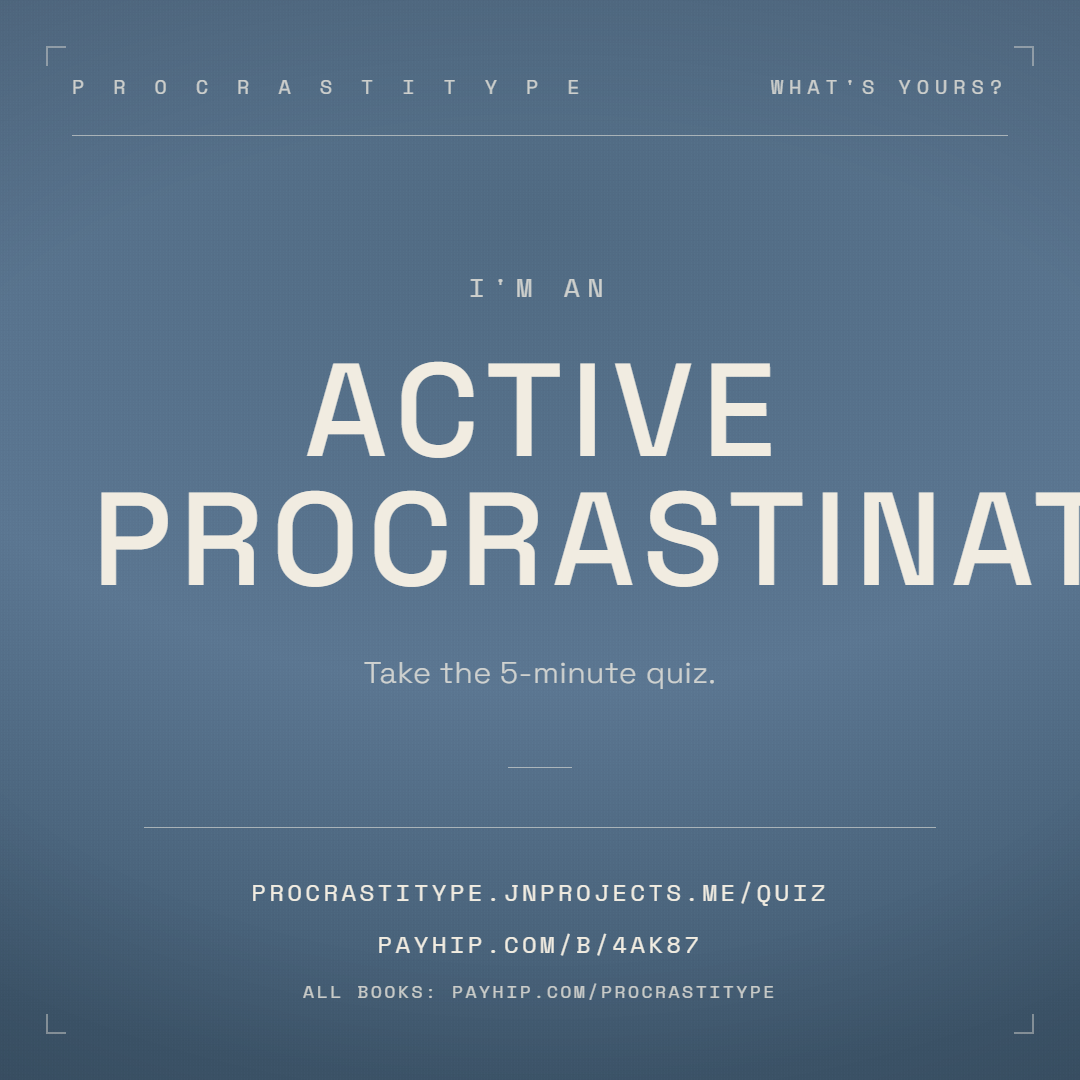
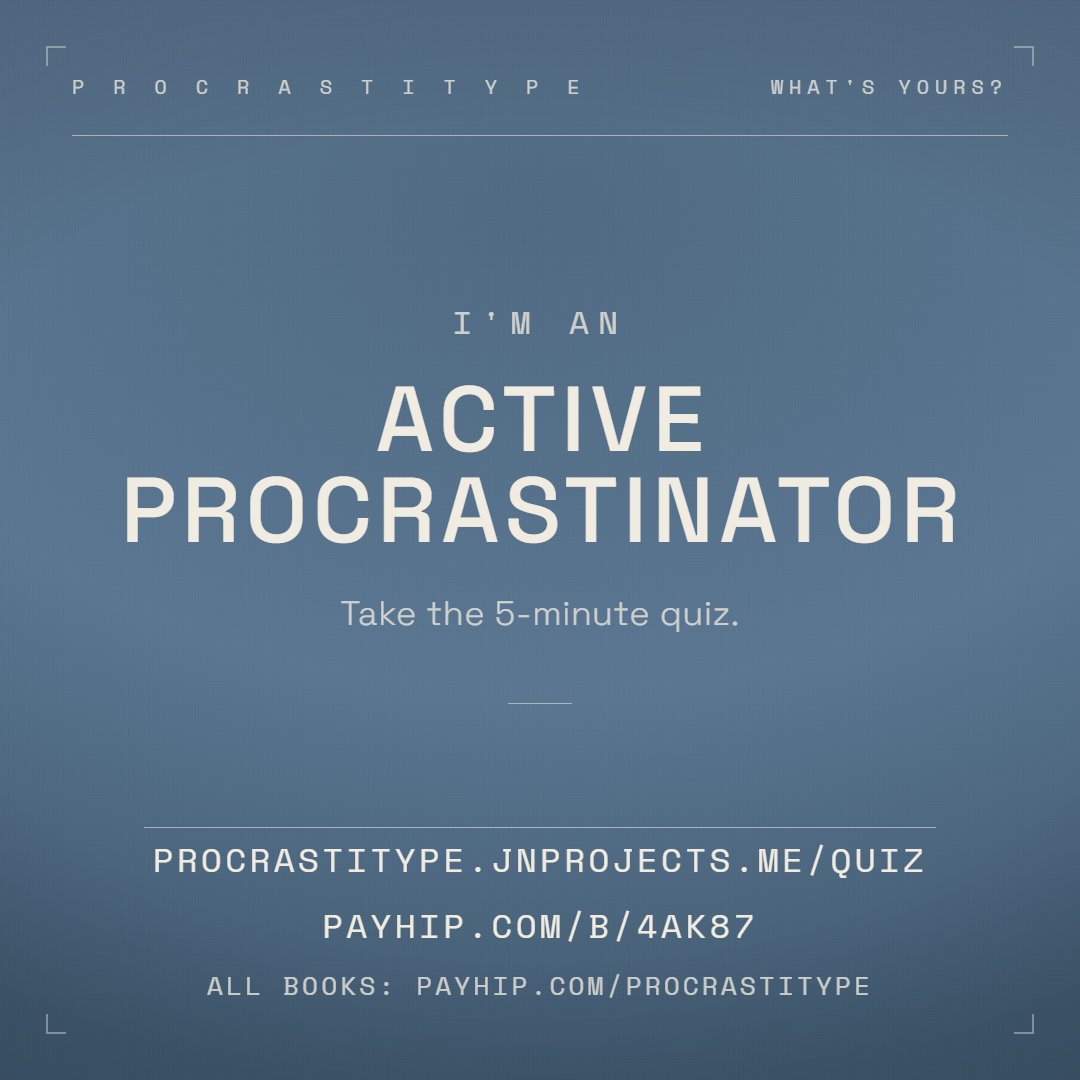
Fix share-card layout: fit title, enlarge secondary text
- reduce title size so Procrastinator line no longer clips off-card
- enlarge quiz/product/shop URLs and subtitle for readability
- add share-card overflow checker (all 7 cards verified to fit)

diff --git a/share-cards/check-share-card-overflow.js b/share-cards/check-share-card-overflow.js
@@ -1,0 +1,121 @@
+// Verify that no title line overflows the card for all configured types, and
+// that the whole card (frame) fits without clipping.
+//
+// Usage:
+//   node share-cards/check-share-card-overflow.js  [--only slug]
+//
+// Prints, per card, the overflow in px for each title line plus the frame.
+// Nonzero pixels mean the text is being clipped and the config needs smaller
+// type (titleSize) or less content.
+
+const fs = require("fs");
+const os = require("os");
+const path = require("path");
+const puppeteer = require(path.join(
+  __dirname,
+  "..",
+  "book-cover-generator",
+  "node_modules",
+  "puppeteer"
+));
+const config = require("./share-cards.config.js");
+const TEMPLATE = fs.readFileSync(path.join(__dirname, "share-card-template.html"), "utf8");
+
+function fill(card) {
+  const titleHtml = card.titleLines.map((line) => `<span>${line}</span>`).join("");
+  return TEMPLATE
+    .replace(/\{\{TITLE\}\}/g, card.titleLines.join(" "))
+    .replace(/\{\{ARTICLE\}\}/g, card.article)
+    .replace(/\{\{TITLE_HTML\}\}/g, titleHtml)
+    .replace(/\{\{TITLE_SIZE\}\}/g, String(card.titleSize))
+    .replace(/\{\{PALETTE_PRIMARY\}\}/g, card.palette.primary)
+    .replace(/\{\{PALETTE_DEEP\}\}/g, card.palette.deep)
+    .replace(/\{\{PALETTE_SHADE\}\}/g, card.palette.shade)
+    .replace(/\{\{CARD_W\}\}/g, "1080")
+    .replace(/\{\{CARD_H\}\}/g, "1080")
+    .replace(/\{\{SERIES_NAME\}\}/g, config.SERIES_NAME)
+    .replace(/\{\{EYEBROW\}\}/g, config.EYEBROW)
+    .replace(/\{\{SUBTITLE\}\}/g, card.subtitle)
+    .replace(/\{\{QUIZ_URL\}\}/g, config.QUIZ_URL)
+    .replace(/\{\{SHOP_URL\}\}/g, config.SHOP_URL)
+    .replace(/\{\{BOOK_URL\}\}/g, card.bookUrl);
+}
+
+(async () => {
+  const args = process.argv.slice(2);
+  const onlyIdx = args.indexOf("--only");
+  const only = onlyIdx >= 0 ? args[onlyIdx + 1] : null;
+  const cards = config.CARDS.filter((c) => !only || c.slug === only);
+  if (!cards.length) {
+    console.error(`No card matching --only ${only}`);
+    process.exit(1);
+  }
+
+  const browser = await puppeteer.launch({ headless: "new" });
+  let failures = 0;
+  try {
+    for (const card of cards) {
+      const page = await browser.newPage();
+      await page.setViewport({ width: 1080, height: 1080, deviceScaleFactor: 1 });
+      const file = path.join(os.tmpdir(), `share-ov-${card.slug}.html`);
+      fs.writeFileSync(file, fill(card));
+      await page.goto("file:///" + file.replace(/\\/g, "/"), { waitUntil: "load" });
+      await page.evaluate(() => document.fonts.ready);
+
+      const r = await page.evaluate(() => {
+        const spans = Array.from(document.querySelectorAll(".title span"));
+        const lines = spans.map((s) => {
+          const ow = s.scrollWidth;
+          const cw = s.clientWidth;
+          return ow - cw;
+        });
+        // Center is flex:1 (stretched), so measure the real content instead:
+        // the last child of .center is the subtitle-rule.
+        const center = document.querySelector(".center");
+        const lastChild = center.querySelector(".subtitle-rule") || center.lastElementChild;
+        const rule = document.querySelector(".bottom-rule");
+        const bottom = document.querySelector(".bottom");
+
+        const ruleTop = rule.getBoundingClientRect().top;
+        const contentBottom = lastChild.getBoundingClientRect().bottom;
+        const bottomBox = bottom.getBoundingClientRect();
+        const topRule = document.querySelector(".top-rule");
+        const claim = center.querySelector(".claim-small");
+        // topRule bottom vs claim top (content above shouldn't hit the top rule)
+        const contentTop = claim.getBoundingClientRect().top;
+        const topRuleBottom = topRule.getBoundingClientRect().bottom;
+
+        return {
+          lines: lines,
+          contentVsRule: contentBottom - ruleTop,
+          contentVsTop: topRuleBottom - contentTop,
+          bottomOverflowY: bottomBox.bottom - window.innerHeight,
+        };
+      });
+
+      const bad = r.lines.some((o) => o > 0) ||
+        r.contentVsRule > 0 ||
+        r.contentVsTop > 0 ||
+        r.bottomOverflowY > 0;
+      if (bad) failures++;
+
+      console.log(
+        `${card.slug.padEnd(18)} titleLineOverflow=[${r.lines.join(",")}] ` +
+        `contentVsRule=${Math.round(r.contentVsRule)} vsTop=${Math.round(r.contentVsTop)} ` +
+        `bottom=${Math.round(r.bottomOverflowY)} ` +
+        (bad ? "  <-- OVERFLOW" : "")
+      );
+      await page.close().catch(() => {});
+    }
+  } finally {
+    await browser.close();
+  }
+  if (failures) {
+    console.error(`\n${failures} card(s) overflow. Fix type size/content before regenerating.`);
+    process.exit(1);
+  }
+  console.log("\nAll cards fit. OK.");
+})().catch((e) => {
+  console.error(e);
+  process.exit(1);
+});

diff --git a/share-cards/share-cards.config.js b/share-cards/share-cards.config.js
@@ -23,7 +23,7 @@ const CARDS = [
     slug: "arousal",
     article: "an",
     titleLines: ["Arousal", "Procrastinator"],
-    titleSize: 150,
+    titleSize: 92,
     subtitle: "Take the 5-minute quiz.",
     bookUrl: "payhip.com/b/D9TpI",
     palette: { primary: "#b97a55", deep: "#96614a", shade: "#aa6f4e" },
@@ -32,7 +32,7 @@ const CARDS = [
     slug: "avoidance",
     article: "an",
     titleLines: ["Avoidance", "Procrastinator"],
-    titleSize: 132,
+    titleSize: 92,
     subtitle: "Take the 5-minute quiz.",
     bookUrl: "payhip.com/b/IYDC1",
     palette: { primary: "#8a9a82", deep: "#6f8169", shade: "#7d8d75" },
@@ -41,7 +41,7 @@ const CARDS = [
     slug: "decisional",
     article: "a",
     titleLines: ["Decisional", "Procrastinator"],
-    titleSize: 128,
+    titleSize: 92,
     subtitle: "Take the 5-minute quiz.",
     bookUrl: "payhip.com/b/WKSjw",
     palette: { primary: "#4f8a8a", deep: "#396b6b", shade: "#457a7a" },
@@ -50,7 +50,7 @@ const CARDS = [
     slug: "perfectionist",
     article: "a",
     titleLines: ["Perfectionist", "Procrastinator"],
-    titleSize: 112,
+    titleSize: 78,
     subtitle: "Take the 5-minute quiz.",
     bookUrl: "payhip.com/b/cIwO0",
     palette: { primary: "#6b7078", deep: "#4d525a", shade: "#5d626a" },
@@ -59,7 +59,7 @@ const CARDS = [
     slug: "passive",
     article: "a",
     titleLines: ["Passive", "Procrastinator"],
-    titleSize: 132,
+    titleSize: 92,
     subtitle: "Take the 5-minute quiz.",
     bookUrl: "payhip.com/b/eiqDR",
     palette: { primary: "#6d6a9e", deep: "#514e7d", shade: "#605d8d" },
@@ -68,7 +68,7 @@ const CARDS = [
     slug: "active",
     article: "an",
     titleLines: ["Active", "Procrastinator"],
-    titleSize: 132,
+    titleSize: 92,
     subtitle: "Take the 5-minute quiz.",
     bookUrl: "payhip.com/b/4aK87",
     palette: { primary: "#5b7691", deep: "#40596f", shade: "#506a82" },
@@ -77,7 +77,7 @@ const CARDS = [
     slug: "emotion-regulation",
     article: "an",
     titleLines: ["Emotion", "Regulation", "Procrastinator"],
-    titleSize: 100,
+    titleSize: 74,
     subtitle: "Take the 5-minute quiz.",
     bookUrl: "payhip.com/b/MBGQX",
     palette: { primary: "#8a7a99", deep: "#6b5d78", shade: "#7d6f8c" },

diff --git a/share-cards/share-card-template.html b/share-cards/share-card-template.html
@@ -121,11 +121,11 @@
 
   .claim-small {
     font-family: "Space Mono", ui-monospace, monospace;
-    font-size: 26px;
+    font-size: 32px;
     letter-spacing: 0.30em;
     text-transform: uppercase;
     color: var(--bone-soft);
-    margin-bottom: 40px;
+    margin-bottom: 28px;
   }
 
   .title {
@@ -145,10 +145,10 @@
   }
 
   .subtitle {
-    margin-top: 48px;
+    margin-top: 36px;
     font-family: "Space Grotesk", sans-serif;
     font-weight: 300;
-    font-size: 30px;
+    font-size: 34px;
     line-height: 1.35;
     letter-spacing: 0.02em;
     color: var(--bone-soft);
@@ -162,7 +162,7 @@
     width: 64px;
     height: 1px;
     background: var(--bone-rule);
-    margin: 44px auto 0 auto;
+    margin: 32px auto 0 auto;
   }
 
   /* Bottom zone */
@@ -177,15 +177,15 @@
 
   .link {
     font-family: "Space Mono", ui-monospace, monospace;
-    font-size: 24px;
-    letter-spacing: 0.14em;
+    font-size: 34px;
+    letter-spacing: 0.10em;
     text-transform: uppercase;
     color: var(--bone);
   }
 
   .link.sub {
-    font-size: 18px;
-    letter-spacing: 0.14em;
+    font-size: 26px;
+    letter-spacing: 0.12em;
     color: var(--bone-soft);
   }
 
